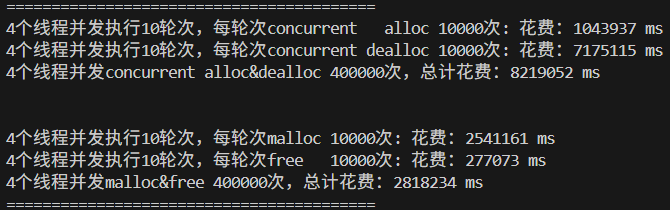
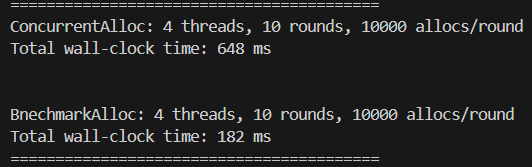
修改并添加Benchmark.cpp相关部分

diff --git a/Benchmark.cpp b/Benchmark.cpp
@@ -4,8 +4,6 @@
 一种是申请ntimes*rounds次同一个块大小的空间，
 一种是申请ntimes*rounds次不同的块大小的空间*/
 
-/*下面的代码稍微过一眼就好*/
-
 #include <atomic>
 #include <vector>
 
@@ -17,8 +15,6 @@
 void BenchmarkMalloc(size_t ntimes, size_t nworks, size_t rounds)
 {
     std::vector<std::thread> vthread(nworks);
-    std::atomic<size_t> malloc_costtime = 0;
-    std::atomic<size_t> free_costtime = 0;
 
     for (size_t k = 0; k < nworks; ++k)
     {
@@ -30,7 +26,6 @@ void BenchmarkMalloc(size_t ntimes, size_t nworks, size_t rounds)
 
                 for (size_t j = 0; j < rounds; ++j)
                 {
-                    size_t begin1 = clock();
                     for (size_t i = 0; i < ntimes; i++)
                     {
                         // 每一次申请同一个桶中的块
@@ -38,36 +33,30 @@ void BenchmarkMalloc(size_t ntimes, size_t nworks, size_t rounds)
                         // 每一次申请不同桶中的块
                         v.push_back(malloc((16 + i) % 8192 + 1));
                     }
-                    size_t end1 = clock();
 
-                    size_t begin2 = clock();
                     for (size_t i = 0; i < ntimes; i++)
                     {
                         free(v[i]);
                     }
-                    size_t end2 = clock();
                     v.clear();
-
-                    malloc_costtime += (end1 - begin1);
-                    free_costtime += (end2 - begin2);
                 }
             });
     }
 
+    auto overall_start = std::chrono::high_resolution_clock::now();
     for (auto& t : vthread)
     {
         t.join();
     }
+    auto overall_end = std::chrono::high_resolution_clock::now();
+    auto total_wall_ms = std::chrono::duration_cast<std::chrono::milliseconds>(
+                             overall_end - overall_start)
+                             .count();
 
-    printf("%lu个线程并发执行%lu轮次，每轮次malloc %lu次: 花费：%lu ms\n",
-           nworks, rounds, ntimes, malloc_costtime.load());
-
-    printf("%lu个线程并发执行%lu轮次，每轮次free   %lu次: 花费：%lu ms\n",
-           nworks, rounds, ntimes, free_costtime.load());
-
-    printf("%lu个线程并发malloc&free %lu次，总计花费：%lu ms\n", nworks,
-           nworks * rounds * ntimes,
-           malloc_costtime.load() + free_costtime.load());
+    // 打印总墙上时间
+    printf("BnechmarkAlloc: %lu threads, %lu rounds, %lu allocs/round\n",
+           nworks, rounds, ntimes);
+    printf("Total wall-clock time: %lu ms\n", total_wall_ms);
 }
 
 // ntimes 单轮次申请释放次数
@@ -76,8 +65,6 @@ void BenchmarkMalloc(size_t ntimes, size_t nworks, size_t rounds)
 void BenchmarkConcurrentMalloc(size_t ntimes, size_t nworks, size_t rounds)
 {
     std::vector<std::thread> vthread(nworks);
-    std::atomic<size_t> malloc_costtime = 0;
-    std::atomic<size_t> free_costtime = 0;
 
     for (size_t k = 0; k < nworks; ++k)
     {
@@ -89,46 +76,35 @@ void BenchmarkConcurrentMalloc(size_t ntimes, size_t nworks, size_t rounds)
 
                 for (size_t j = 0; j < rounds; ++j)
                 {
-                    size_t begin1 = clock();
                     for (size_t i = 0; i < ntimes; i++)
                     {
                         // v.push_back(ConcurrentAlloc(16));
                         v.push_back(ConcurrentAlloc((16 + i) % 8192 + 1));
                     }
-                    size_t end1 = clock();
 
-                    size_t begin2 = clock();
                     for (size_t i = 0; i < ntimes; i++)
                     {
                         ConcurrentFree(v[i]);
                     }
-                    size_t end2 = clock();
                     v.clear();
-
-                    malloc_costtime += (end1 - begin1);
-                    free_costtime += (end2 - begin2);
                 }
             });
     }
 
+    auto overall_start = std::chrono::high_resolution_clock::now();
     for (auto& t : vthread)
     {
         t.join();
     }
+    auto overall_end = std::chrono::high_resolution_clock::now();
+    auto total_wall_ms = std::chrono::duration_cast<std::chrono::milliseconds>(
+                             overall_end - overall_start)
+                             .count();
 
-    printf(
-        "%lu个线程并发执行%lu轮次，每轮次concurrent   alloc %lu次: 花费：%lu "
-        "ms\n",
-        nworks, rounds, ntimes, malloc_costtime.load());
-
-    printf(
-        "%lu个线程并发执行%lu轮次，每轮次concurrent dealloc %lu次: 花费：%lu "
-        "ms\n",
-        nworks, rounds, ntimes, free_costtime.load());
-
-    printf("%lu个线程并发concurrent alloc&dealloc %lu次，总计花费：%lu ms\n",
-           nworks, nworks * rounds * ntimes,
-           malloc_costtime.load() + free_costtime.load());
+    // 打印总墙上时间
+    printf("ConcurrentAlloc: %lu threads, %lu rounds, %lu allocs/round\n",
+           nworks, rounds, ntimes);
+    printf("Total wall-clock time: %lu ms\n", total_wall_ms);
 }
 
 int main()

diff --git a/README.md b/README.md
@@ -23,19 +23,25 @@
 
 ### 结果图
 
-优化前：
+**优化前（见Benchmark.cpp）：**
 
 ![benchmark1](images/benchmark1.png)
 
 ![flamegraph1](images/flamegraph1.png)
 
-优化后：
+**优化后（见Benchmark.cpp）：**
 
 ![benchmark2](images/benchmark2.png)
+
+![benchmark3](images/benchmark3.png)
 
 ![flamegraph2](images/flamegraph2.png)
 
 可以看到少了很多unique_lock的开销。
+
+**高并发多线程测试（每个线程做5万次 alloc/free，见AdvancedBenchmark.cpp）：**
+
+![benchmark4](images/benchmark4.png)
 
 ### Linux版本与Windows版本的区别
 1. Linux申请和释放空间使用函数不同，参考include/Common.h
